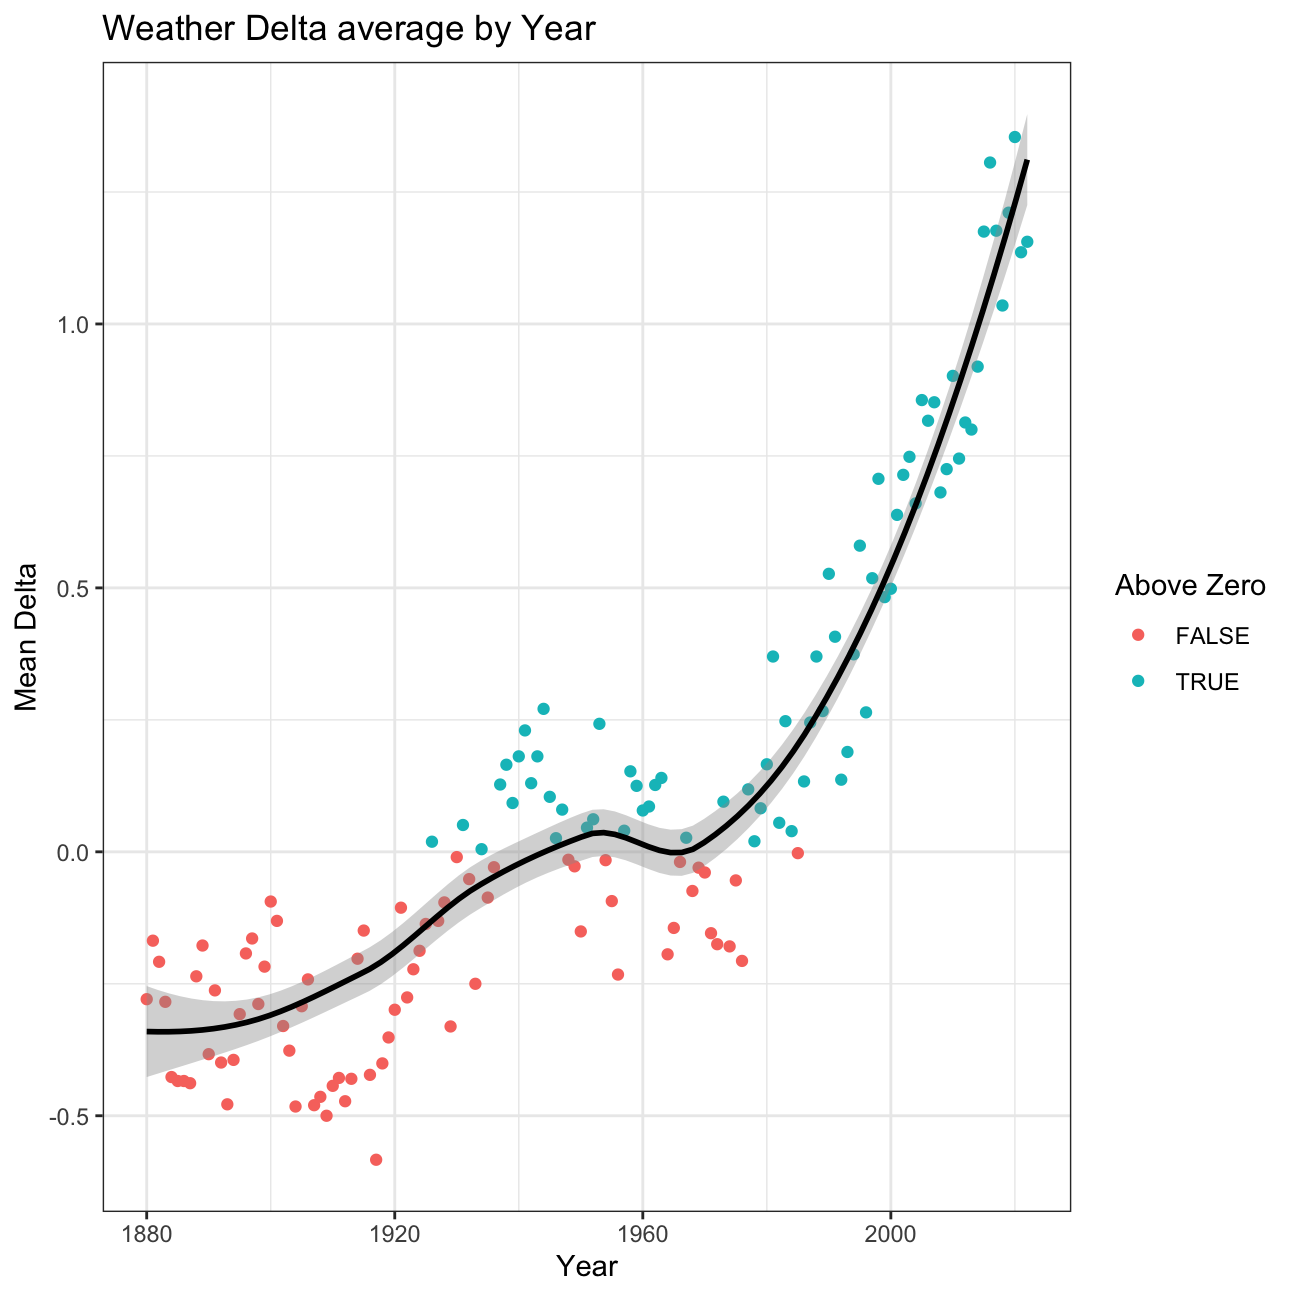
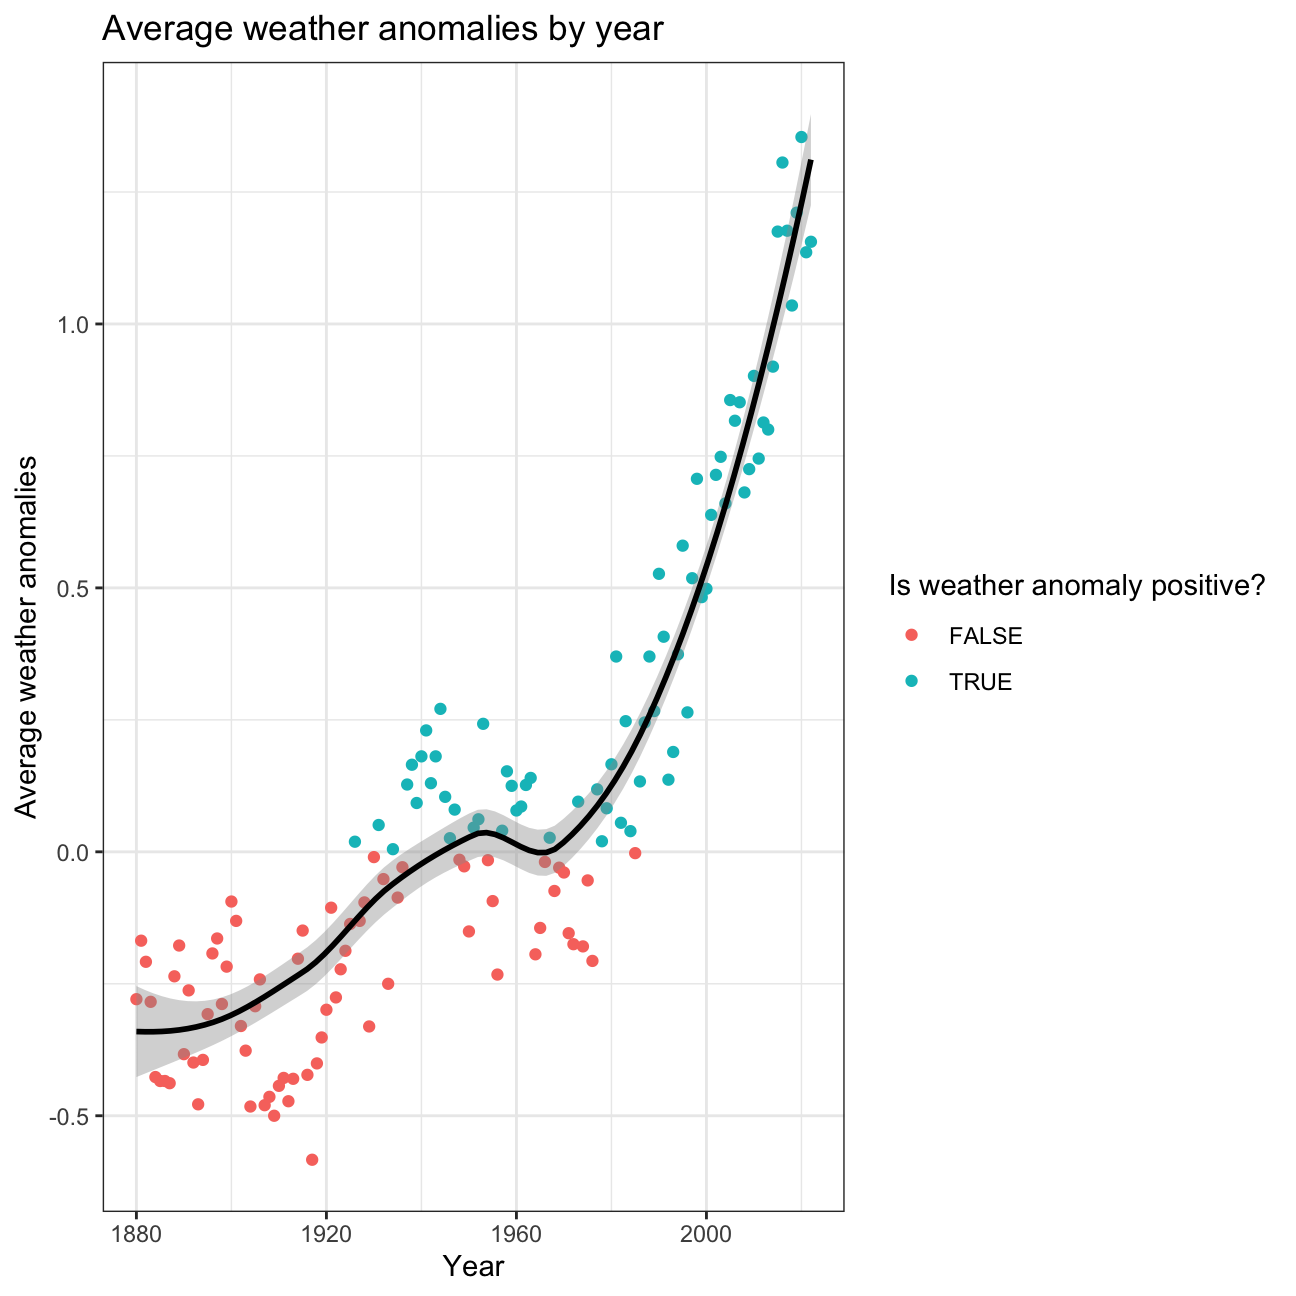
task CC

diff --git a/content/blogs/climate_change.html b/content/blogs/climate_change.html
@@ -15,51 +15,80 @@ editor_options:
 
 
 
+<p>In this section I will conduct an analysis of climate change. The data
+has been collected by NASA’s Goddard Institute for Space Studies. The
+reference period for analysing the anomalies was set for 1951-1980.</p>
+<p>Let’s have a quick look at the data provided by NASA.</p>
 <pre class="r"><code>weather &lt;- 
   read_csv(&quot;https://data.giss.nasa.gov/gistemp/tabledata_v4/NH.Ts+dSST.csv&quot;, 
            skip = 1, 
-           na = &quot;***&quot;)</code></pre>
-<pre class="r"><code># SELECT YEAR, MONTHS AND PIVOT LONGER
-weather %&gt;% 
+           na = &quot;***&quot;)
+
+head(weather)</code></pre>
+<pre><code>## # A tibble: 6 × 19
+##    Year   Jan   Feb   Mar   Apr   May   Jun   Jul   Aug   Sep   Oct   Nov   Dec
+##   &lt;dbl&gt; &lt;dbl&gt; &lt;dbl&gt; &lt;dbl&gt; &lt;dbl&gt; &lt;dbl&gt; &lt;dbl&gt; &lt;dbl&gt; &lt;dbl&gt; &lt;dbl&gt; &lt;dbl&gt; &lt;dbl&gt; &lt;dbl&gt;
+## 1  1880 -0.36 -0.5  -0.23 -0.29 -0.06 -0.16 -0.17 -0.25 -0.22 -0.3  -0.41 -0.4 
+## 2  1881 -0.3  -0.21 -0.03  0.01  0.05 -0.32  0.09 -0.03 -0.26 -0.43 -0.36 -0.23
+## 3  1882  0.26  0.21  0.02 -0.3  -0.23 -0.28 -0.28 -0.14 -0.24 -0.51 -0.33 -0.68
+## 4  1883 -0.58 -0.66 -0.15 -0.3  -0.25 -0.11 -0.05 -0.22 -0.34 -0.16 -0.44 -0.15
+## 5  1884 -0.16 -0.11 -0.64 -0.59 -0.36 -0.41 -0.41 -0.51 -0.45 -0.44 -0.57 -0.47
+## 6  1885 -1.01 -0.45 -0.23 -0.49 -0.58 -0.45 -0.33 -0.41 -0.4  -0.37 -0.38 -0.11
+## # … with 6 more variables: `J-D` &lt;dbl&gt;, `D-N` &lt;dbl&gt;, DJF &lt;dbl&gt;, MAM &lt;dbl&gt;,
+## #   JJA &lt;dbl&gt;, SON &lt;dbl&gt;
+## # ℹ Use `colnames()` to see all variable names</code></pre>
+<p>The provided data gives us the information on the deviation of the
+temperature from expected temperature for every month and year between
+1880 and 2021.</p>
+<p>Let’s see what was the dynamic of weather anomalies over years. In order
+to create a scatter plot, I need to pivot the table using function
+<code>pivot_longer.</code></p>
+<pre class="r"><code>weather %&gt;% 
   select(1:13) %&gt;% 
   pivot_longer(2:13, names_to = &quot;month&quot;, values_to = &quot;delta&quot;) -&gt; tidyweather</code></pre>
-<div id="plotting-information" class="section level2">
-<h2>Plotting Information</h2>
+<p>Now, after creating a new variable <code>date</code>, I am able to produce
+time-series scatter plot showing a pace of weather anomalies over time.</p>
 <pre class="r"><code>tidyweather &lt;- tidyweather %&gt;%
   mutate(date = ymd(paste(as.character(Year), month, &quot;1&quot;)),
          month = month(date, label=TRUE),
          Year = year(date))
 
 ggplot(tidyweather, aes(x=date, y = delta))+
-  geom_point()+
-  geom_smooth(color=&quot;red&quot;) +
+  geom_point(color = &quot;darkcyan&quot;, alpha = 0.6)+
+  geom_smooth(color=&quot;black&quot;) +
   theme_bw() +
   labs (
-    title = &quot;Weather Anomalies&quot;,
+    title = &quot;Weather anomalies over time&quot;,
     x = &quot;Year&quot;,
-    y = &quot;Delta&quot;
+    y = &quot;Deviation&quot;
   )</code></pre>
 <p><img src="/blogs/climate_change_files/figure-html/scatter_plot-1.png" width="648" style="display: block; margin: auto;" /></p>
+<p>Let’s have a look at the weather anomalies each month by using
+<code>facet_wrap</code> function.</p>
 <pre class="r"><code>ggplot(tidyweather, aes(x=date, y = delta))+
-  geom_point()+
-  geom_smooth(color=&quot;red&quot;) +
+  geom_point(color = &quot;darkcyan&quot;, alpha = 0.6)+
+  geom_smooth(color=&quot;black&quot;) +
   facet_wrap(~month) +
   theme_bw() +
   labs (
     title = &quot;Weather Anomalies&quot;,
     x = &quot;Year&quot;,
-    y = &quot;Delta&quot;
+    y = &quot;Deviation&quot;
   )</code></pre>
 <p><img src="/blogs/climate_change_files/figure-html/facet_wrap-1.png" width="648" style="display: block; margin: auto;" /></p>
 <blockquote>
 <p>There is no apparent difference between the effects of increasing
 temperature in monthly data. January and February seem to represent
-the strongest change, but it does not vary significantly from other
-months.</p>
+the strongest change over time, but it does not vary significantly
+from other months. Therefore, we can conclude that the climate change
+influences deviations in temperature regardless of the month or
+season.</p>
 </blockquote>
+<p>Now, let’s produce a density plot of weather anomalies for 5 time
+periods starting from 1880. In order to do this, I need to create new
+variable <code>interval</code> using <code>mutate</code> function.</p>
 <pre class="r"><code>comparison &lt;- tidyweather %&gt;% 
-  filter(Year&gt;= 1881) %&gt;%     #remove years prior to 1881
-  #create new variable &#39;interval&#39;, and assign values based on criteria below:
+  filter(Year&gt;= 1881) %&gt;%    
   mutate(interval = case_when(
     Year %in% c(1881:1920) ~ &quot;1881-1920&quot;,
     Year %in% c(1921:1950) ~ &quot;1921-1950&quot;,
@@ -67,22 +96,23 @@ months.</p>
     Year %in% c(1981:2010) ~ &quot;1981-2010&quot;,
     TRUE ~ &quot;2011-present&quot;
   ))</code></pre>
+<p>In a next step, I am plotting the graph with <code>ggplot</code> package.</p>
 <pre class="r"><code>comparison %&gt;% 
   ggplot(aes(x = delta, fill = interval, color = interval)) +
   geom_density(alpha = 0.3) +
   labs (
-    title = &quot;Weather Delta by Decade&quot;,
-    x = &quot;Delta&quot;,
+    title = &quot;Weather anomalies by time interval &quot;,
+    x = &quot;Deviation&quot;,
     y = &quot;Density&quot;,
     fill = &quot;Decade&quot;,
     color = &quot;Decade&quot;
   )</code></pre>
 <p><img src="/blogs/climate_change_files/figure-html/density_plot-1.png" width="648" style="display: block; margin: auto;" /></p>
-<pre class="r"><code>#creating yearly averages
-average_annual_anomaly &lt;- tidyweather %&gt;% 
-  group_by(Year) %&gt;%   #grouping data by Year
-  # creating summaries for mean delta 
-  # use `na.rm=TRUE` to eliminate NA (not available) values 
+<p>We can also create a plot for average yearly anomalies. To produce this
+graph, I need to create yearly averages using <code>group_by</code> and <code>summarise</code>
+functions. I am using <code>loess</code> method to see the trend over time.</p>
+<pre class="r"><code>average_annual_anomaly &lt;- tidyweather %&gt;% 
+  group_by(Year) %&gt;%   
   summarise(mean_delta = mean(delta, na.rm=TRUE)) 
 
 average_annual_anomaly %&gt;% 
@@ -91,20 +121,26 @@ average_annual_anomaly %&gt;%
   geom_smooth(method = &quot;loess&quot;, color=&quot;black&quot;) +
   theme_bw() + 
   labs(
-    title = &quot;Weather Delta average by Year&quot;,
+    title = &quot;Average weather anomalies by year&quot;,
     x = &quot;Year&quot;,
-    y = &quot;Mean Delta&quot;, 
-    color = &quot;Above Zero&quot;
+    y = &quot;Average weather anomalies&quot;, 
+    color = &quot;Is weather anomaly positive?&quot;
   )</code></pre>
 <p><img src="/blogs/climate_change_files/figure-html/averaging-1.png" width="648" style="display: block; margin: auto;" /></p>
-</div>
 <div id="confidence-interval-for-delta" class="section level2">
 <h2>Confidence Interval for <code>delta</code></h2>
+<p>Let’s construct confidence interval for weather anomalies since 2011.
+First, I will try calculating CI using formula.</p>
 <div id="ci-using-formula" class="section level4">
 <h4>CI using formula</h4>
+<p>For starters, I filtered for years 2011 and above. In order to calculate
+the confidence intervals, I have calculated for every year many summary
+statistics including mean, SD, SE and sample size. Using these summary
+statistics I have calculated the t-Student distribution critical value,
+and multiplied the <code>t_critical</code> by the standard error to get the final
+margin of error. Finally I added and subtracted the margin of error to
+the mean to get the limits of the interval.</p>
 <pre class="r"><code>formula_ci &lt;- comparison %&gt;% 
-
-  # choose the interval 2011-present
   filter(Year &gt;= 2011) %&gt;% 
   group_by(Year) %&gt;% 
   summarise(
@@ -119,11 +155,6 @@ average_annual_anomaly %&gt;%
     delta_high = mean_delta + margin_of_error
   )
   
-  # calculate summary statistics for temperature deviation (delta) 
-  # calculate mean, SD, count, SE, lower/upper 95% CI
-  # what dplyr verb will you use? 
-
-#print out formula_CI
 formula_ci</code></pre>
 <pre><code>## # A tibble: 12 × 9
 ##     Year mean_delta sd_delta count t_critical se_delta margin_…¹ delta…² delta…³
@@ -141,17 +172,9 @@ formula_ci</code></pre>
 ## 11  2021      1.14     0.115    12       2.20   0.0332    0.0731   1.06    1.21 
 ## 12  2022     NA       NA        12       2.20  NA        NA       NA      NA    
 ## # … with abbreviated variable names ¹margin_of_error, ²delta_low, ³delta_high</code></pre>
-<blockquote>
-<p>In order to calculate the confidence intervals, we have calculated for
-every year many summary statistics including mean, SD, SE and sample
-size. Using these summary statistics we have calculated the t-Student
-distribution critical value, and multiplied the <code>t_critical</code> by the
-standard error to get the final margin of error. Finally we add and
-subtract the margin of error to the mean to get the limits of the
-interval. In order to fully understand the data we have collected, we
-have come up with the following visualization of the mean and
-confidence intervals:</p>
-</blockquote>
+<p>In order to fully understand the data we I calculated above, here you
+can see the following visualization of the mean and confidence
+intervals:</p>
 <pre class="r"><code>formula_ci %&gt;% 
   mutate(Year = as.factor(Year)) %&gt;% 
   na.omit() %&gt;% 
@@ -160,13 +183,13 @@ confidence intervals:</p>
   theme_bw() + 
   theme(legend.position = &quot;none&quot;) +
   labs(
-    title = &quot;Weather Delta range by Year&quot;,
+    title = &quot;Weather anomalies range by Year&quot;,
     subtitle = &quot;NASA Weater Data&quot;,
     x = &quot;Year&quot;,
     y = &quot;Delta range&quot;, 
     color = NULL
   )</code></pre>
-<p><img src="/blogs/climate_change_files/figure-html/unnamed-chunk-1-1.png" width="648" style="display: block; margin: auto;" /></p>
+<p><img src="/blogs/climate_change_files/figure-html/unnamed-chunk-2-1.png" width="648" style="display: block; margin: auto;" /></p>
 <blockquote>
 <p>The visualization shows an increase in the mean over the years,
 reaching a first maximum in 2016, and an even higher maximum mean in
@@ -184,7 +207,6 @@ intervals are very large and vary a lot by year. The total confidence
 interval for the entire period is as follows:</p>
 <pre class="r"><code>formula_ci_interval &lt;- comparison %&gt;% 
 
-  # choose the interval 2011-present
   filter(Year &gt;= 2011) %&gt;% 
   na.omit() %&gt;% 
   group_by(interval) %&gt;% 
@@ -192,7 +214,6 @@ interval for the entire period is as follows:</p>
     mean_delta = mean(delta),
     sd_delta = sd(delta),
     count = n(),
-    # We&#39;re choosing a 95% confidence interval:
     t_critical = qt(0.975, count-1),
     se_delta = sd(delta/sqrt(count)),
     margin_of_error = t_critical*se_delta,
@@ -200,7 +221,6 @@ interval for the entire period is as follows:</p>
     delta_high = mean_delta + margin_of_error
   )
 
-#print out formula_CI
 formula_ci_interval %&gt;% select(delta_low, delta_high)</code></pre>
 <pre><code>## # A tibble: 1 × 2
 ##   delta_low delta_high
@@ -209,8 +229,9 @@ formula_ci_interval %&gt;% select(delta_low, delta_high)</code></pre>
 </div>
 <div id="ci-using-bootstrapping" class="section level4">
 <h4>CI using bootstrapping</h4>
+<p>Finally, we can also calculate the intervals for year 2011 and above
+using <code>bootstraping</code>:</p>
 <pre class="r"><code>boot_dist &lt;- comparison %&gt;%
-  # choose the interval 2011-present
   filter(Year &gt;= 2011) %&gt;%
   mutate(Year = as.factor(Year)) %&gt;%
   specify(response=delta) %&gt;%
@@ -218,9 +239,7 @@ formula_ci_interval %&gt;% select(delta_low, delta_high)</code></pre>
   calculate(stat = &quot;mean&quot;)
 
 boot_dist %&gt;%
-  # Calculate the confidence interval around the point estimate
   get_confidence_interval(
-    # At the 95% confidence level; percentile method
     level = 0.95
   )</code></pre>
 <pre><code>## # A tibble: 1 × 2

diff --git a/content/blogs/about_me.html b/content/blogs/about_me.html
@@ -13,7 +13,7 @@ output:
 <div id="early-life" class="section level2">
 <h2>Early life</h2>
 <p>My name is <em>Emilia Moskala</em> and I was born in Poland on 30.07.1999. My parents, Izabella and Jacek, lived in a small town in southern Poland - Kalwaria Zebrzydowska. That’s where I spent the most of my childhood. After I graduated local primary school, me and my family moved to another city, Krakow, so that I can continue my secondary education.</p>
-<p><img src="../../../../../../img/cracow.jpg" width="70%" />
+<p><img src="../../../../../../img/cracow.jpg" width="100%" />
 <em>Krakow is one of the most beautiful cities in Poland.</em></p>
 </div>
 <div id="education" class="section level2">
@@ -29,11 +29,11 @@ output:
 <div id="business-background" class="section level2">
 <h2>Business Background</h2>
 <p>During my studies, I applied for Deloitte’s IT Academy, where I had an opportunity to learn about information systems, integration, IT architecture, and data warehouse. Headhunted by recruiters, I joined Technology Strategy &amp; Transformation at Deloitte Digital.</p>
-<p><img src="../../../../../../img/warsaw.jpg" width="70%" />
+<p><img src="../../../../../../img/warsaw.jpg" width="100%" />
 <em>This was my view from Deloitte’s office.</em></p>
 </div>
 <div id="london-business-school" class="section level2">
 <h2>London Business School</h2>
 <p>Through my experience at Deloitte, I realised that I would like to deepen my knowledge on the opportunities posed by digital disruption, and I found MAM curriculum perfectly tailored not only for my professional but also academic interests. Therefore, I decided to continue my education at LBS.</p>
-<p><img src="../../../../../../img/london.jpg" width="70%" /></p>
+<p><img src="../../../../../../img/london.jpg" width="100%" /></p>
 </div>
